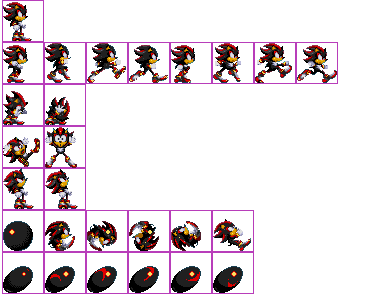
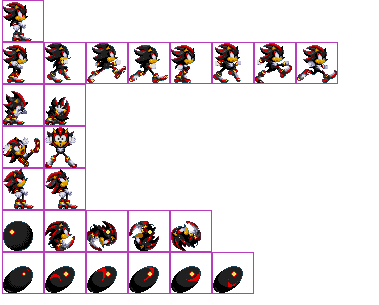
Complete Animations
There are still a number of buggy behaviors with the physics engine,
including spooky action at a distance, losing speed while walking,
multi-jump, and remaining in spindash after a collision.

Changed region(s): [[0.5515, 0.6787, 0.6675, 0.8262]]

diff --git a/js/sonic.js b/js/sonic.js
@@ -1,6 +1,5 @@
-const INITIAL_LOCUS = [2, 0, 0];
-const JUMPING_LOCUS = [12, 550, 0];
-const FALLING_LOCUS = [485, 480, 0];
+const INITIAL_LOCUS = [3, 1, 0];
+// const FALLING_LOCUS = [485, 480, 0];
 const FLIPPING_OFFSET = 20;// Sonic is left-aligned, not centered, in his sprite.
 
 const SPRITE_WIDTH = 40;
@@ -13,35 +12,41 @@ const JUMP_SPEED = 10;
 const BASE_ROLL_SPEED = 20;
 const MAX_CHARGE_FACTOR = 3;// So max speed 60 = 20 * 3.
 
+const JUMPING_ANIMATION_INTERVAL = 25;// milliseconds
 const JUMPING_LOCI = [
-	[2, 211, 0],
-	[44, 211, 0],
-	[86, 211, 0],
-	[128, 211, 0],
-	[170, 211, 0],
-	[212, 211, 0]
+	[3, 211, 0],
+	[45, 211, 0],
+	[87, 211, 0],
+	[129, 211, 0],
+	[171, 211, 0],
+	[213, 211, 0]
 ];
 
+const ROLLING_ANIMATION_INTERVAL = 25;// milliseconds
+const ROLLING_LOCI = [
+	[3, 253, 0],
+	[45, 253, 0],
+	[87, 253, 0],
+	[129, 253, 0],
+	[171, 253, 0],
+	[213, 253, 0],
+];
+
+const RUNNING_ANIMATION_INTERVAL = 100;// milliseconds
 const RUNNING_LOCI = [
-	[260, 104, 0]
-// 	[429, 104, 0],// right heel up
-// 	[472, 104, 10],// right foot up
-// 	[516, 104, 1],// right foot curve
-// 	[561, 104, 1],// right toe up
-// 	[612, 104, 6],// right toe way up
-// 	[665, 104, 3],// right heel down
-// 	[16, 168, 20],// right foot down
-// 	[64, 168, 21],// left foot down
-// 	[106, 168, 3],// left foot up
-// 	[148, 168, 0],// left foot curve
-// 	[190, 168, 19],// left toe semi-up
-// 	[245, 168, 4],// left heel down
-// 	[308, 168, 30]// left foot down
+	[3, 43, 0],
+	[45, 43, 0],
+	[87, 43, 0],
+	[129, 43, 0],
+	[171, 43, 0],
+	[213, 43, 0],
+	[255, 43, 0],
+	[297, 43, 0]
 ];
 
 const CROUCHING_LOCI = [
-	[2, 84, 0],
-	[44, 84, 0]
+	[3, 85, 0],
+	[45, 85, 0]
 ];
 
 const CHARACTERS = [
@@ -59,7 +64,7 @@ const CHARACTERS = [
 		reverseSprite: 'images/flipped/shadow-flipped.png',
 		spriteSheetWidth: 379,
 		scale: 2,
-		numJumpFrames: 6
+		numJumpFrames: 5
 	},
 	{
 		// Sonic
@@ -73,28 +78,19 @@ const CHARACTERS = [
 
 class Sonic {
 	constructor() {
-		this.locus = INITIAL_LOCUS;
-		this.isFacingRight = true;
-		this.walkFrame = 0;
-		this.crouchFrame = null;
 		this.chargeFactor = 0;
 		this.characterId = 0;
+		this.isFacingRight = true;
+
+		this.walkFrame = null;
+		this.crouchFrame = null;
+		this.rollFrame = null;
+
+		this.locus = INITIAL_LOCUS;
 		this.body = Bodies.rectangle(400, 200, SPRITE_SCALE * SPRITE_WIDTH, SPRITE_SCALE * SPRITE_HEIGHT);
 
-		this.scale = SPRITE_SCALE;
-
 		// Load Tikal.
-		this.sprite = this.getSpriteSheet('images/curated/tikal-curated.png');
-		this.numJumpFrames = 6;
-		this.scale = 2.1;
-		this.drawing = {
-			'image': this.sprite,
-			'locus': this.locus,
-			'scale': this.scale
-		};
-		this.spriteSheetWidth = 372;
-
-		this.reverseSprite = this.getSpriteSheet('images/flipped/tikal-flipped.png');
+		this.loadCharacter(this.characterId);
 	}
 
 	switch() {
@@ -132,7 +128,7 @@ class Sonic {
 			locus = [
 				this.spriteSheetWidth - locus[0] - SPRITE_WIDTH,
 				locus[1],
-				- locus[2] - FLIPPING_OFFSET
+				1000
 			];
 		}
 
@@ -150,14 +146,15 @@ class Sonic {
 	}
 
 	animateRight() {
+		clearTimeout(this.rollFrame);
 		let frame = 1;
 		this.isFacingRight = true;
 
 		const _moveRight = () => {
-			this.locus = INITIAL_LOCUS;//RUNNING_LOCI[frame];
+			this.locus = RUNNING_LOCI[frame];
 			this.draw();
 			frame = (frame + 1) % RUNNING_LOCI.length;
-			this.walkFrame = requestAnimationFrame(_moveRight);
+			this.walkFrame = setTimeout(_moveRight, RUNNING_ANIMATION_INTERVAL);
 		};
 
 		if (this.isOnGround()) {
@@ -171,20 +168,31 @@ class Sonic {
 	}
 
 	animateLeft() {
+		clearTimeout(this.rollFrame);
 		let frame = 1;
 		this.isFacingRight = false;
 
 		const _moveLeft = () => {
-			this.locus = INITIAL_LOCUS;//RUNNING_LOCI[frame];
-
+			this.locus = RUNNING_LOCI[frame];
 			this.draw();
-
 			frame = (frame + 1) % RUNNING_LOCI.length;
-			this.walkFrame = requestAnimationFrame(_moveLeft);
+			this.walkFrame = setTimeout(_moveLeft, RUNNING_ANIMATION_INTERVAL);
 		};
 
 		if (this.isOnGround()) {
 			_moveLeft();
+		}
+	}
+
+	endWalking() {
+		Body.setVelocity(this.body, {x: 0, y: this.body.velocity.y});
+		
+		if (this.walkFrame !== null) {
+			clearTimeout(this.walkFrame);
+			this.walkFrame = null;
+
+			this.locus = INITIAL_LOCUS;
+			this.draw();
 		}
 	}
 
@@ -193,6 +201,9 @@ class Sonic {
 	}
 
 	animateCrouch() {
+		clearTimeout(this.rollFrame);
+		this.chargeFactor = 0;
+
 		let frame = 0;
 
 		const _crouchDown = () => {
@@ -225,13 +236,25 @@ class Sonic {
 
 	chargeUp() {
 		this.chargeFactor = Math.min(this.chargeFactor + 1, MAX_CHARGE_FACTOR);
+
+		// Begin rolling animation loop.
+		let frame = 0;
+
+		const _roll = () => {
+			this.locus = ROLLING_LOCI[frame];
+			this.draw();
+			frame = (frame + 1) % ROLLING_LOCI.length;
+			// Is this already cancellable via a jump?
+			this.rollFrame = setTimeout(_roll, ROLLING_ANIMATION_INTERVAL);
+		};
+
+		_roll();
 	}
 
 	roll() {
 		this._isCrouched = false;
 		const vx = BASE_ROLL_SPEED * this.chargeFactor * (this.isFacingRight ? 1 : -1);
 		Body.setVelocity(this.body, {x: vx, y: this.body.velocity.y});
-		// Begin rolling animation loop.
 	}
 
 	isCharged() {
@@ -241,32 +264,32 @@ class Sonic {
 	jump() {
 		const vx = this.body.velocity.x;
 		Body.setVelocity(this.body, {x: vx, y: -JUMP_SPEED});
-		cancelAnimationFrame(this.walkFrame);
+		clearTimeout(this.walkFrame);
 		this.walkFrame = null;
+		clearTimeout(this.rollFrame);
 		let jumpingLocusIndex = 0;
-		this.locus = JUMPING_LOCI[0];
 
 		const _moveUp = () => {
+			this.locus = JUMPING_LOCI[0];
 			this.draw();
 
 			if (this.isJumpingUp()) {
 				jumpingLocusIndex = (jumpingLocusIndex + 1) % this.numJumpFrames;
 				this.locus = JUMPING_LOCI[jumpingLocusIndex];
-				requestAnimationFrame(_moveUp);
+				this.draw();
+				setTimeout(_moveUp, JUMPING_ANIMATION_INTERVAL);
 			} else {
 				// Begin falling.
-				this.locus = FALLING_LOCUS;
-				this.draw();
-				requestAnimationFrame(_moveDown);
+				setTimeout(_moveDown, JUMPING_ANIMATION_INTERVAL);
 			}
 		};
 
 		const _moveDown = () => {
-			this.draw();
 			if (this.isFallingDown()) {
 				jumpingLocusIndex = (jumpingLocusIndex + 1) % this.numJumpFrames;
 				this.locus = JUMPING_LOCI[jumpingLocusIndex];
-				requestAnimationFrame(_moveDown);
+				this.draw();
+				setTimeout(_moveDown, JUMPING_ANIMATION_INTERVAL);
 			} else {
 				// End falling.
 				this.locus = INITIAL_LOCUS;
@@ -285,7 +308,7 @@ class Sonic {
 	}
 
 	pause() {
-		cancelAnimationFrame(this.walkFrame);
+		clearTimeout(this.walkFrame);
 		this.walkFrame = null;
 		Body.setVelocity(sonic.body, {x: 0, y: sonic.body.velocity.y});
 		this.locus = INITIAL_LOCUS;
@@ -301,11 +324,11 @@ class Sonic {
 	}
 
 	isRunningRight() {
-		return this.body.velocity.x > 0.1;
+		return this.walkFrame !== null && this.isFacingRight;
 	}
 
 	isRunningLeft() {
-		return this.body.velocity.x < -0.1;
+		return this.walkFrame !== null && ! this.isFacingRight;
 	}
 
 	isJumpingUp() {

diff --git a/js/main.js b/js/main.js
@@ -66,17 +66,18 @@ Events.on(runner, 'beforeUpdate', function ({name, source, timestamp}) {
 });
 
 
-Events.on(runner, 'afterUpdate', function ({name, source, timestamp}) {
-	// Sonic should stop running once his velocity is gone.
-	if (! sonic.isRunning() && sonic.walkFrame !== null) {
-		sonic.pause();
-	}
-});
+// Events.on(runner, 'afterUpdate', function ({name, source, timestamp}) {
+// 	// Sonic should stop running once his velocity is gone.
+// 	// if (! sonic.isRunning() && sonic.walkFrame !== null) {
+// 	// 	sonic.pause();
+// 	// }
+// });
 
+// Sonic should stop rolling if he encounters an object horizontally.
 // Events.on(engine, 'collisionActive', function ({name, pairs, source}) {
 // 	for (let pair of pairs) {
 // 		if (pair.bodyA.id === sonic.body.id || pair.bodyB.id === sonic.body.id) {
-// 			// This tells us whether Sonic collided vertically.
+// 			// This tells us whether Sonic collided vertically, a better way to tell whether he's on the ground.
 // 			// console.log(pair.collision.axisBody.angle);
 // 		}
 // 	}
@@ -107,7 +108,6 @@ const renderPromise = new Promise((resolve, reject) => {
 
 
 document.addEventListener('keydown', (ev) => {
-	// console.log(ev.keyCode);
 	switch (ev.keyCode) {
 		case 13:// Enter
 			sonic.switch();
@@ -116,7 +116,6 @@ document.addEventListener('keydown', (ev) => {
 			// Only jump if he's basically at rest.
 			if (sonic.isOnGround()) {
 				if (sonic.isCrouched()) {
-					console.log('charge up');
 					sonic.chargeUp();
 				} else {
 					sonic.jump();					
@@ -143,6 +142,10 @@ document.addEventListener('keydown', (ev) => {
 
 document.addEventListener('keyup', (ev) => {
 	switch (ev.keyCode) {
+		case 37:// Left
+		case 39:// Right
+			sonic.endWalking();
+			break;
 		case 40:// Down
 			if (sonic.isCharged()) {
 				sonic.roll();

diff --git a/js/canvas.js b/js/canvas.js
@@ -20,8 +20,8 @@ class Canvas {
 		const drawing = sonic.drawing;
 		const position = sonic.body.position;
 		// Align Sonic's drawing with his physical box approximation.
-		const positionX = position.x - 40;
-		const positionY = position.y + 40;
+		const positionX = Math.round(position.x - 20 * SPRITE_SCALE);
+		const positionY = Math.round(position.y + 20 * SPRITE_SCALE);
 		this.drawImage(drawing.image, drawing.locus, [positionX, this.canvas.height - positionY], drawing.scale);
 	}
 
@@ -47,11 +47,12 @@ class Canvas {
 	}
 
 	drawImage(image, sourceOffset, destinationOffset, scale) {
-		//Do the +/-2 to remove that weird purple border.
+		// Disable imageSmoothingEnabled to remove that weird purple border.
+		this.ctx.imageSmoothingEnabled = false;
 		this.ctx.drawImage(
 			image,
-			sourceOffset[0] + 2, sourceOffset[1] + 2,
-			image.width - 2, image.height - 2,
+			sourceOffset[0], sourceOffset[1],
+			image.width, image.height,
 			destinationOffset[0], this.canvas.height - destinationOffset[1] - image.height * scale,
 			image.width * scale, image.height * scale
 		);
